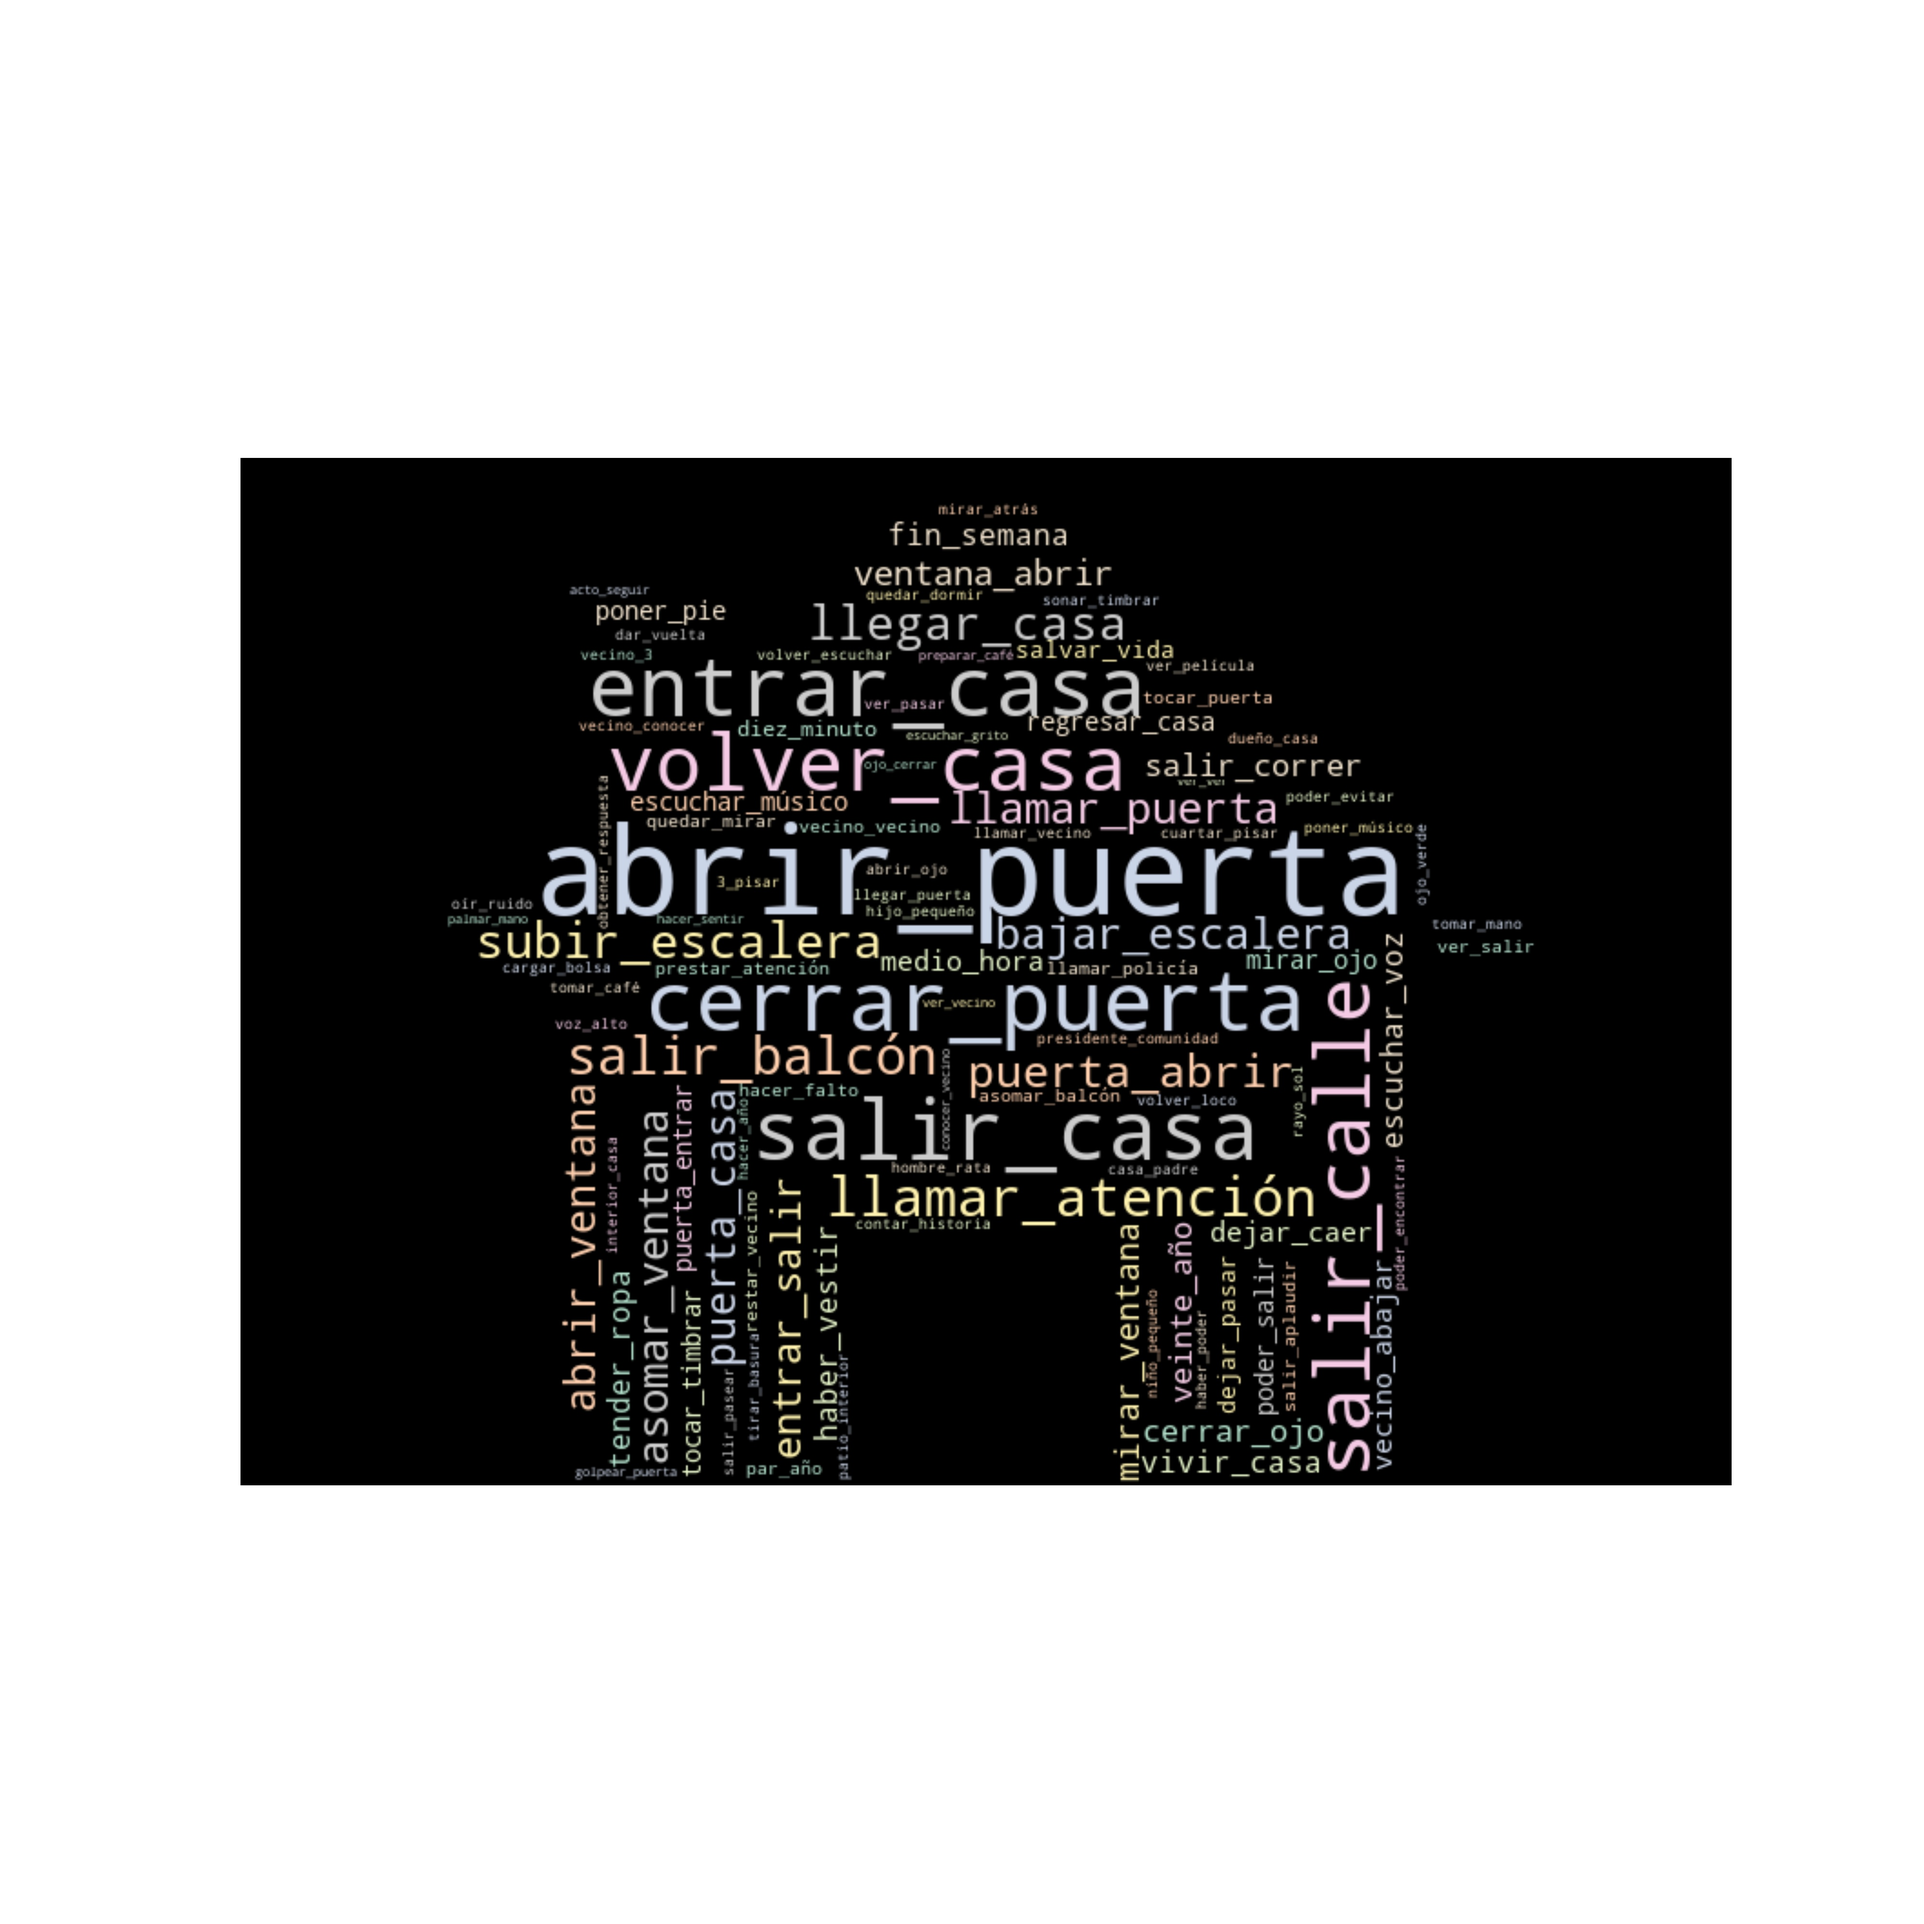
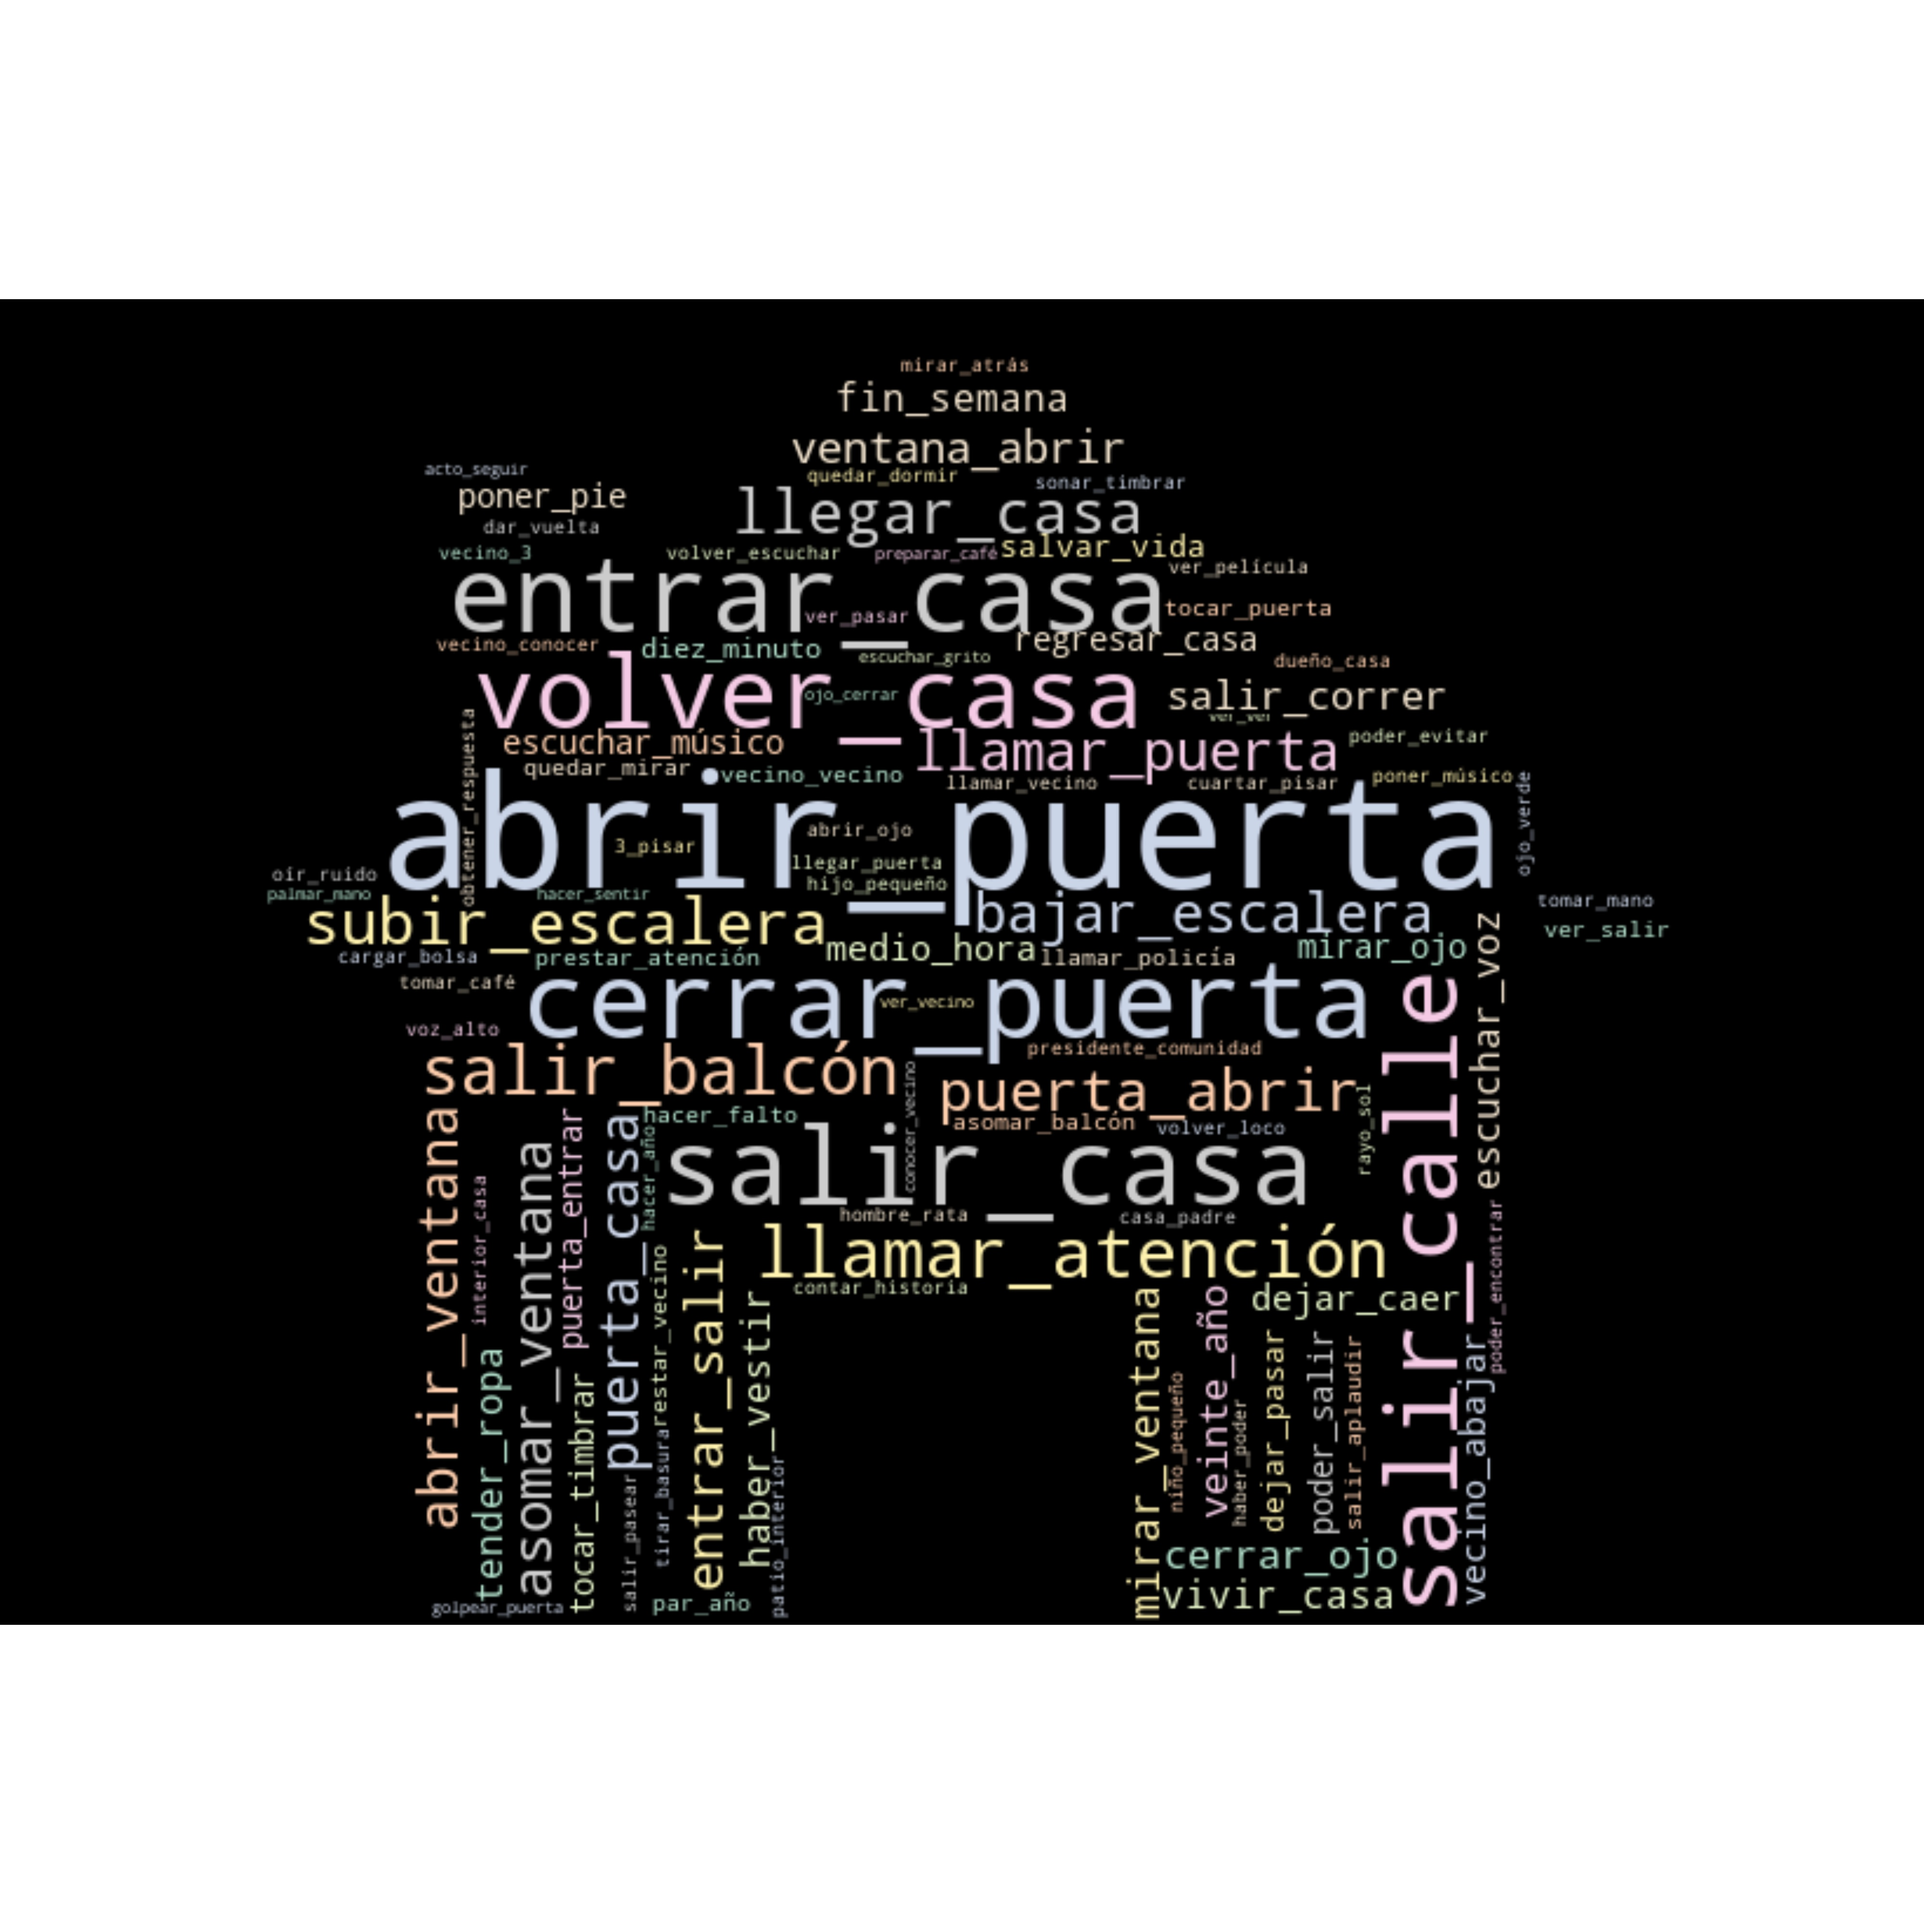
remove border from figures

diff --git a/src/make_figures.py b/src/make_figures.py
@@ -35,8 +35,9 @@ def make_word_cloud(freq,title=None,savefile=None,fontsize=20,figsize=(10,10),
     plt.imshow(word_cloud, interpolation='bilinear')
     plt.axis('off')
     plt.title(title,fontsize=fontsize)
+    plt.tight_layout(pad=0)
     if savefile is not None:
-        plt.savefig(savefile,dpi=dpi)
+        plt.savefig(savefile,dpi=dpi,pad_inches=0)
 
 
 matplotlib.rc('xtick', labelsize=20) 
@@ -54,7 +55,7 @@ def plot_freq(freq,topn=15,title=None,savefig=None):
     ax.set_title(title)
     fig.tight_layout()
     if savefig is not None:
-        fig.savefig(savefig)
+        fig.savefig(savefig,pad_inches=0)
 
 for grams in ("unigrams","bigrams","trigrams"):
     file = structured_data_dir.joinpath(f"{grams}_freq.tsv")

diff --git a/README.md b/README.md
@@ -1,2 +1,6 @@
-Analysis of the spring 2020 submissions to the literary magazine La Gran Belleza
-Analysis by Patrick von Glehn
+Analysis of the spring 2020 submissions to the literary magazine La Gran Belleza for the purposes of promotion on social media.
+
+The full texts have not been included in this repo for copyright reasons.
+
+<img src="figures/unigrams_cloud.jpg" width="200" height="200" />
+
